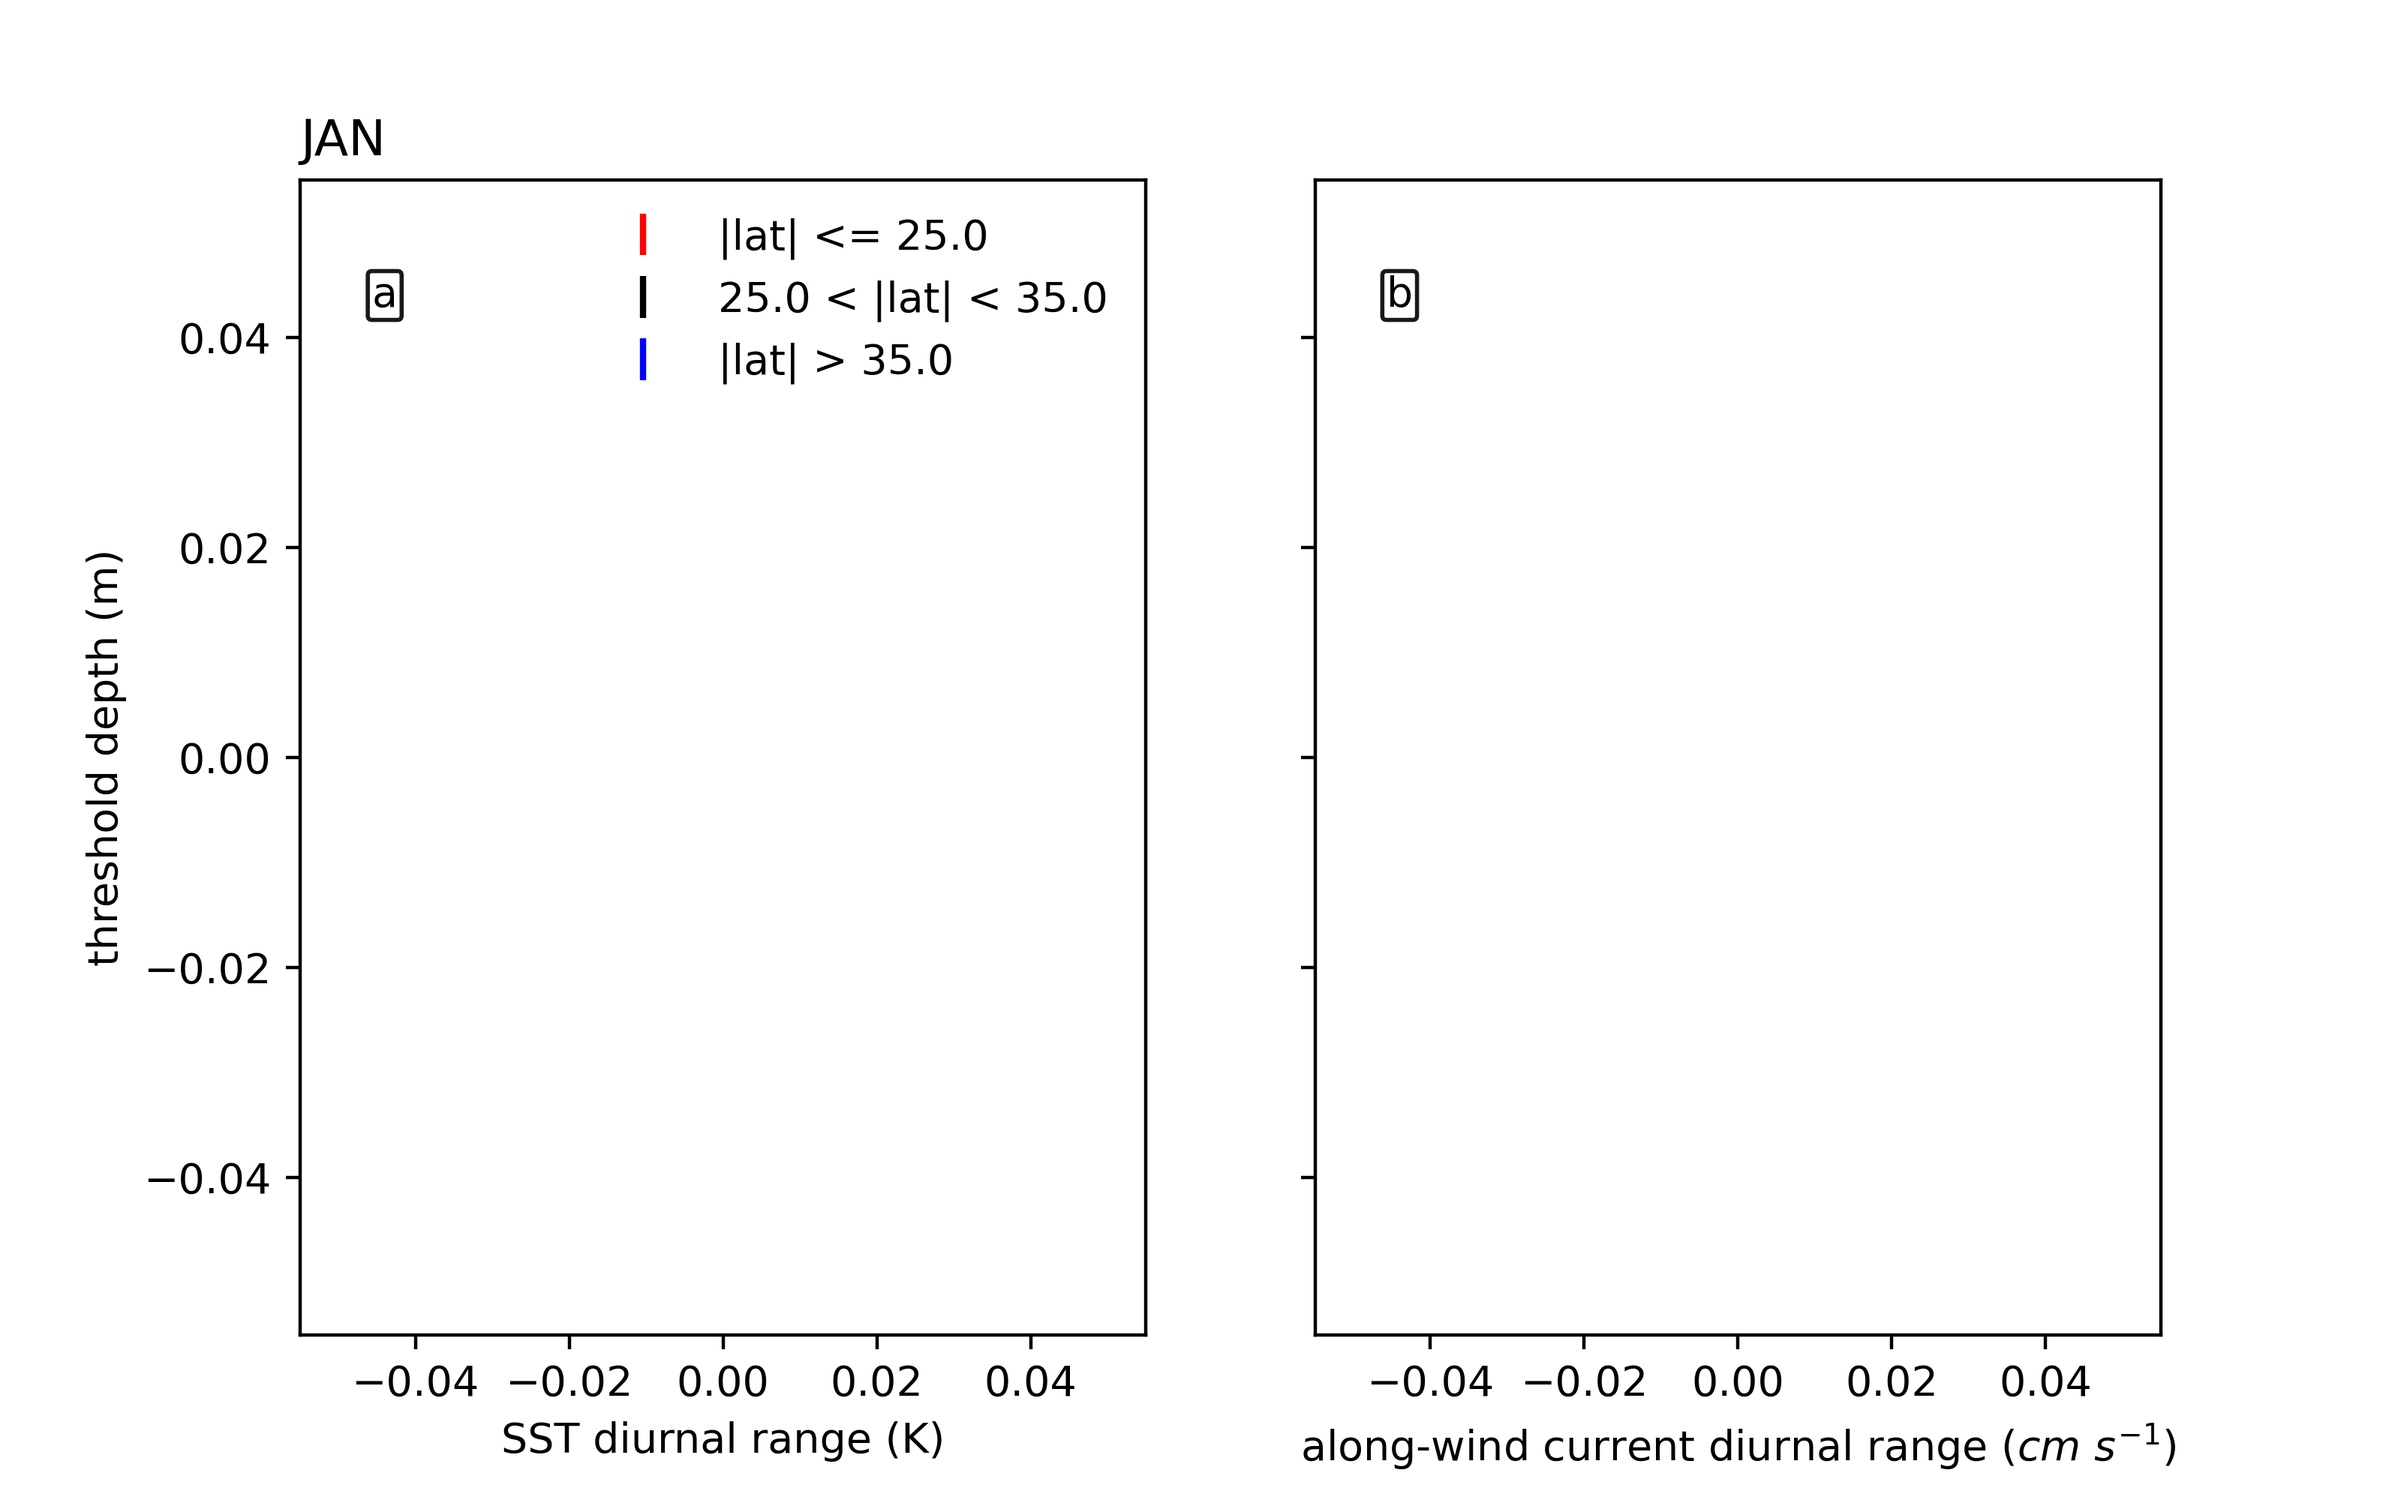
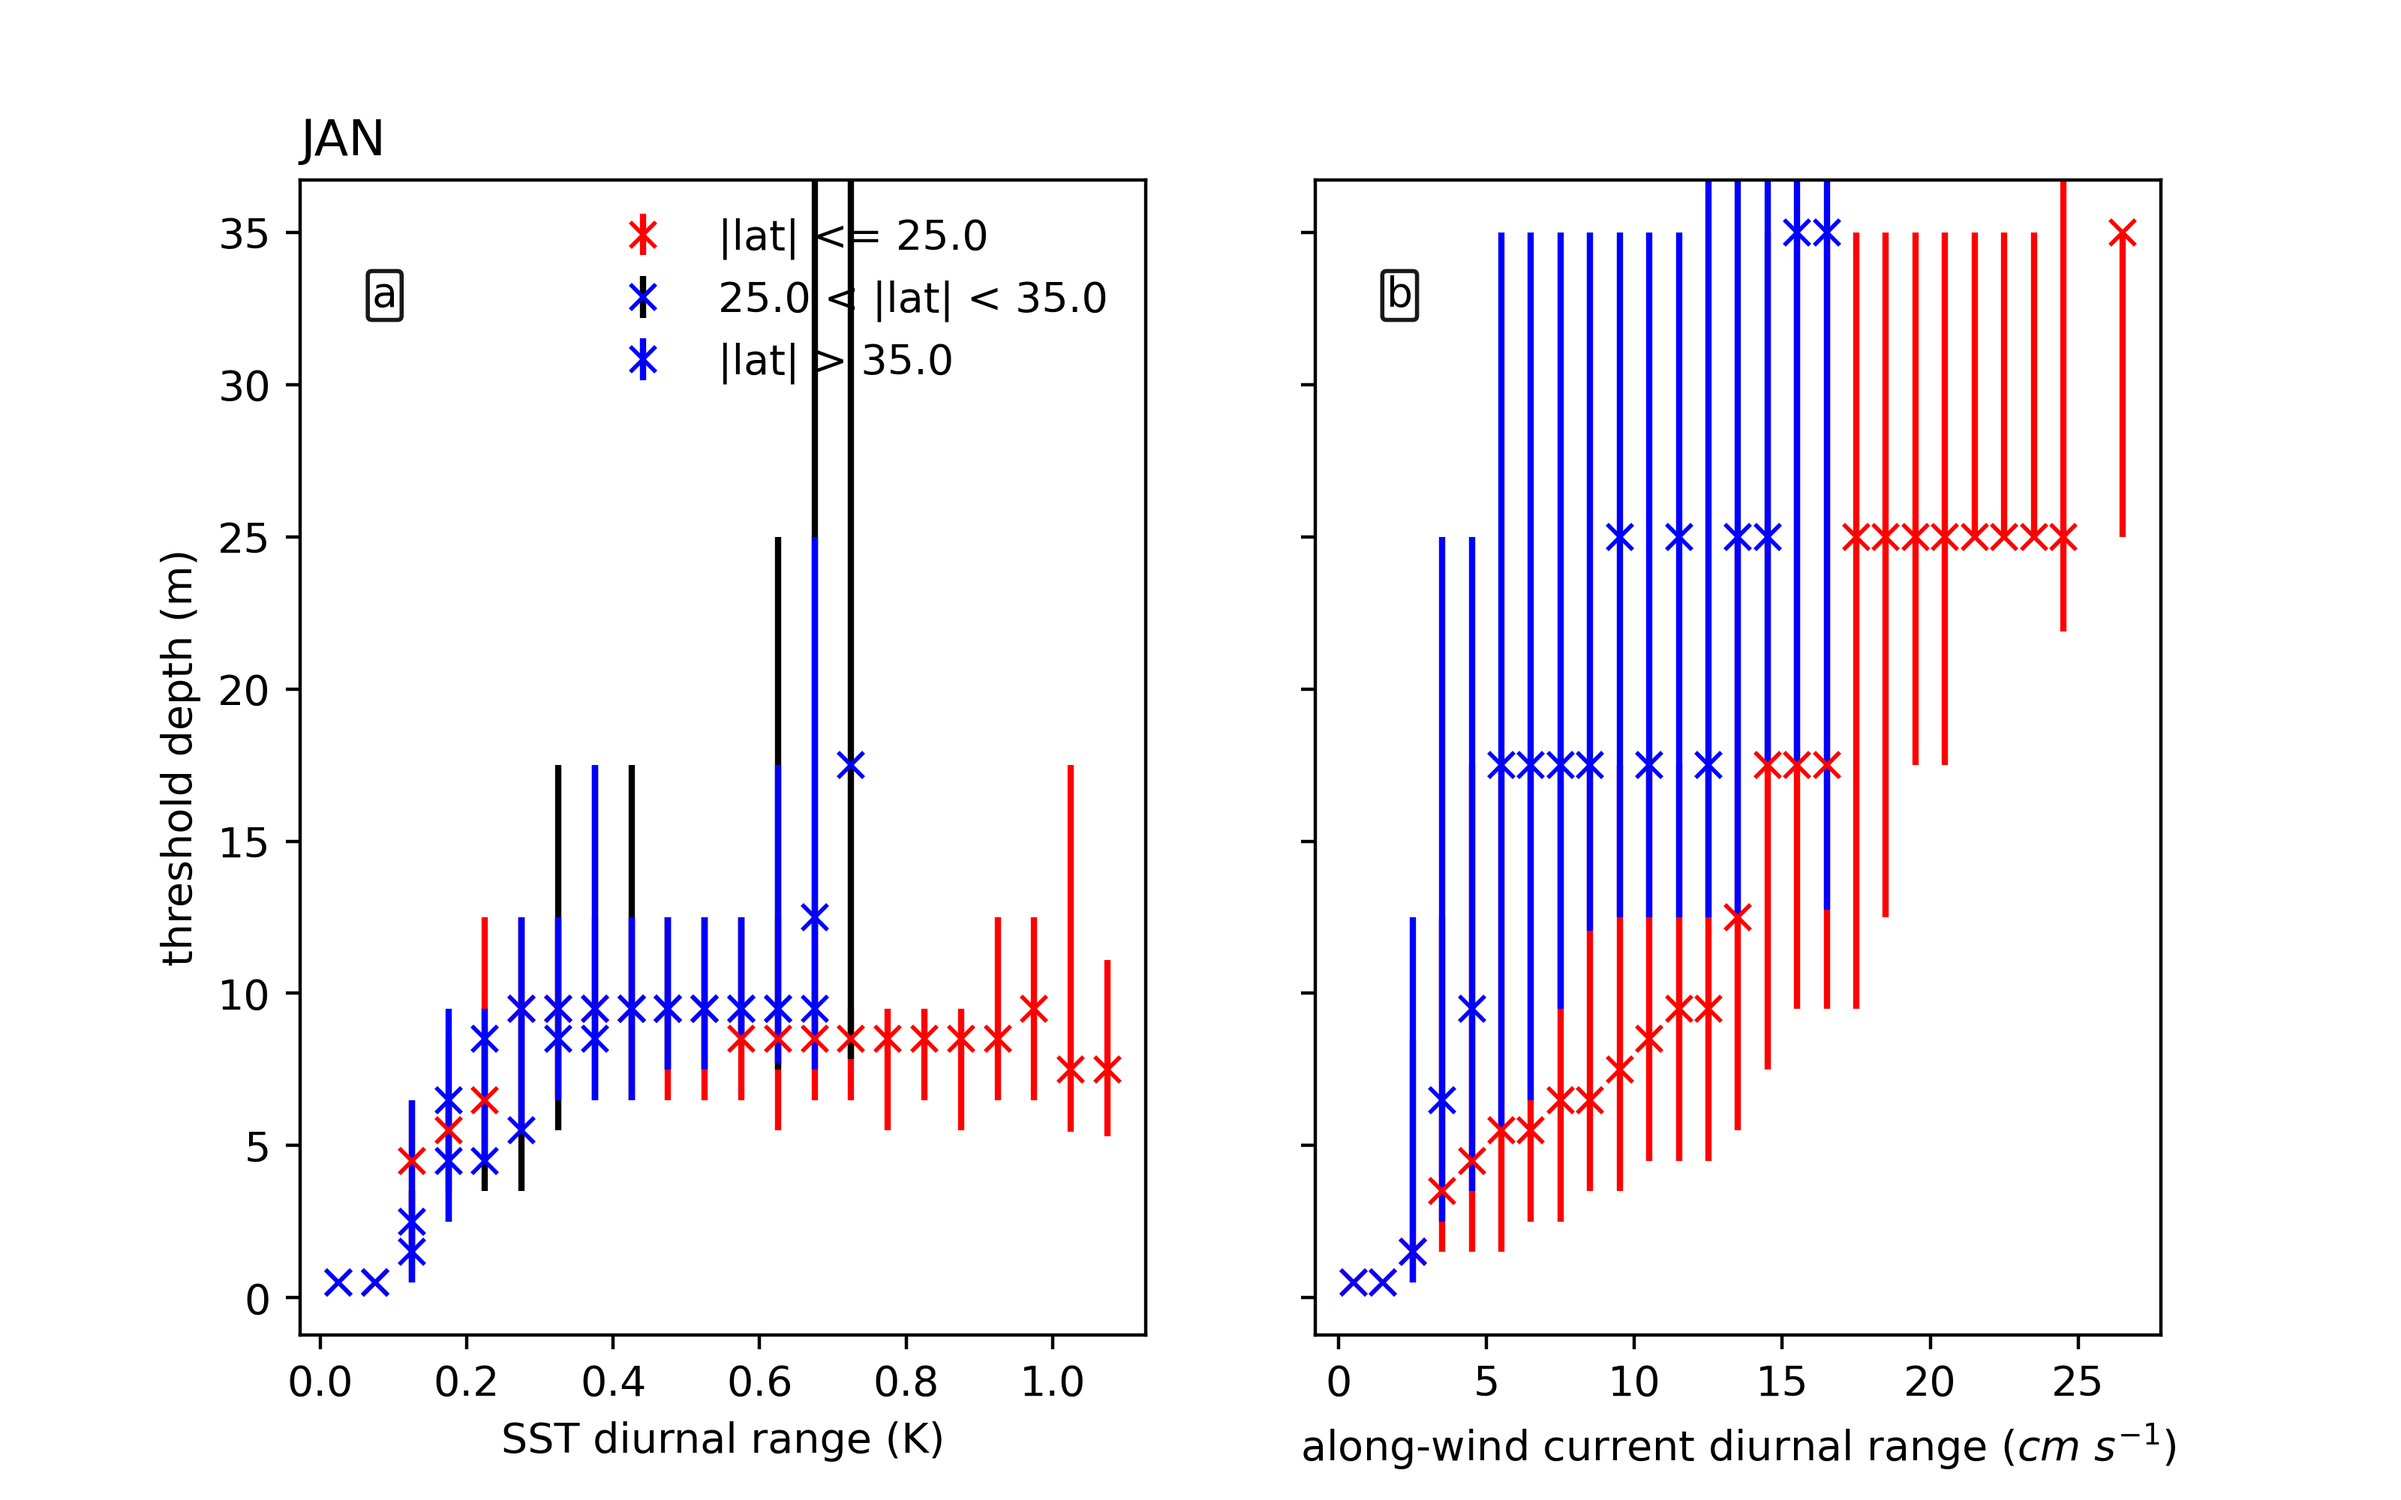
Updates scatter plot.

diff --git a/diurnal_cycle/analysis/surface_threshdepth_scatter.py b/diurnal_cycle/analysis/surface_threshdepth_scatter.py
@@ -119,8 +119,8 @@ def main(plot_month):
         axs[axno_list[ids]].errorbar(
             xcl[ids], yml[ids],
             yerr=[yml[ids] - y5l[ids],
-                  yml[ids] + y95l[ids]],
-            fmt='None', ecolor=col_list[ids],
+                  y95l[ids] - yml[ids]],
+            fmt=col_list[ids][0] + 'x', ecolor=col_list[ids],
             label=label_list[ids]
         )
     """
